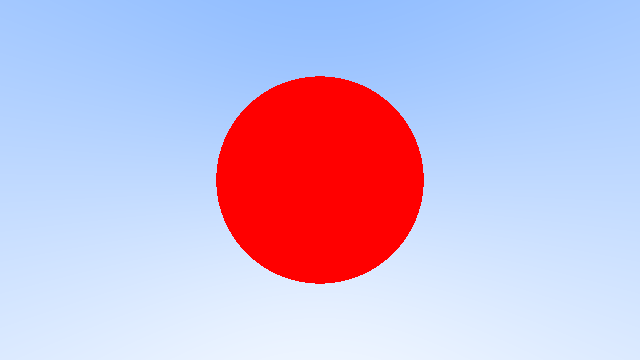
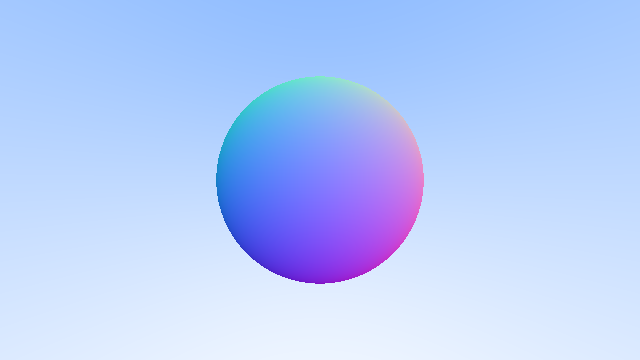
Shade with normals

Changed region(s): [[0.3125, 0.2139, 0.6875, 0.7944]]

diff --git a/src/ray.rs b/src/ray.rs
@@ -23,8 +23,13 @@ impl Ray {
     }
 
     pub fn color(&self) -> Color {
-        if self.hit_sphere(Point3::new(0.0, 0.0, -1.0), 0.5) {
-            return Color::new(1.0, 0.0, 0.0);
+        let center = Point3::new(0.0, 0.0, -1.0);
+        let radius = 0.5;
+
+        let t = self.hit_sphere(center, radius);
+        if t > 0.0 {
+            let n = (self.at(t) - center).unit();
+            return 0.5 * Color::new(n.x() + 1.0, n.y() + 1.0, n.z() + 1.0);
         }
 
         let u = self.direction.unit();
@@ -33,15 +38,19 @@ impl Ray {
         (1.0 - t) * Color::new(1.0, 1.0, 1.0) + t * Color::new(0.5, 0.7, 1.0)
     }
 
-    fn hit_sphere(&self, center: Point3, radius: f32) -> bool {
+    fn hit_sphere(&self, center: Point3, radius: f32) -> f32 {
         let oc = self.origin - center;
 
-        let a = self.direction.dot(&self.direction);
-        let b = 2.0 * oc.dot(&self.direction);
-        let c = oc.dot(&oc) - radius * radius;
+        let a = self.direction.length_squared();
+        let half_b = oc.dot(&self.direction);
+        let c = oc.length_squared() - radius * radius;
 
-        let discr = b * b - 4.0 * a * c;
+        let discr = half_b * half_b - a * c;
 
-        discr > 0.0
+        if discr < 0.0 {
+            -1.0
+        } else {
+            (-half_b - discr.sqrt()) / a
+        }
     }
 }
